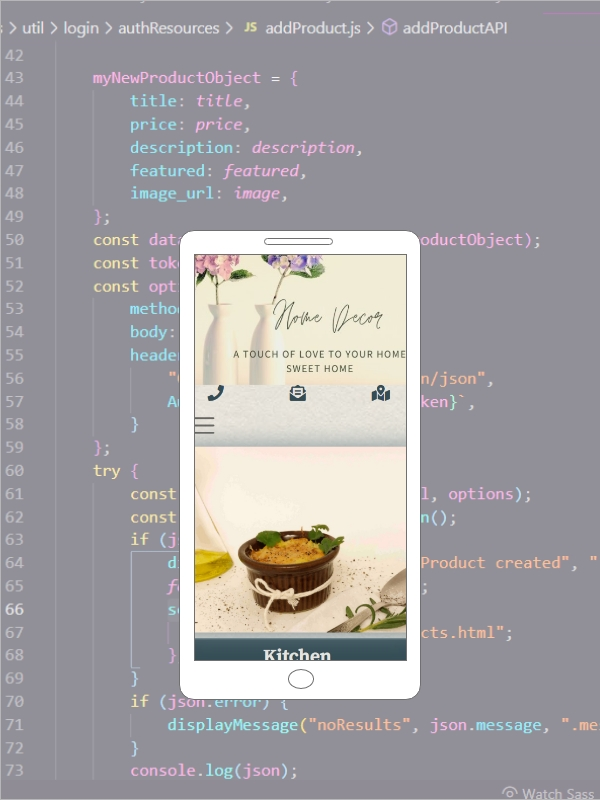
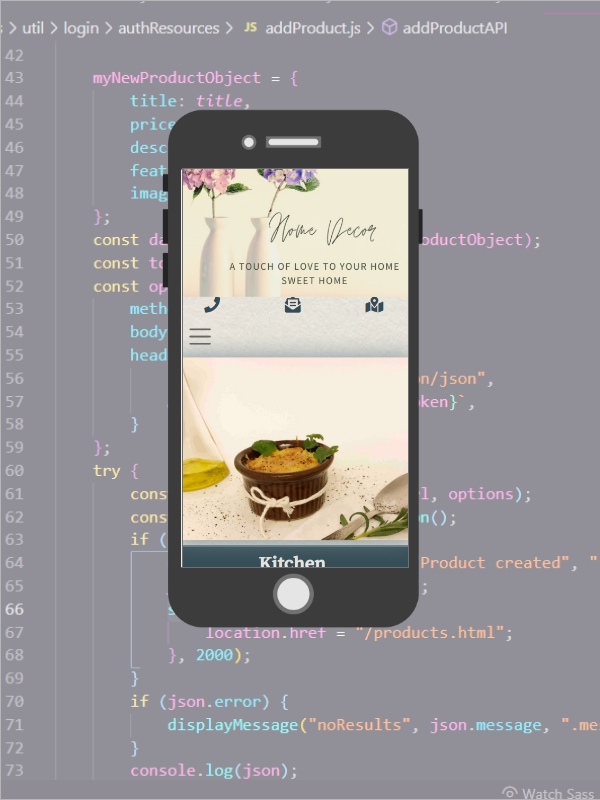
Adjust styles in images and contact form. Adjust the links to page and git in the portfolio section.

Changed region(s): [[0.27, 0.125, 0.72, 0.875]]

diff --git a/js/components/contact.js b/js/components/contact.js
@@ -5,12 +5,12 @@ export function contactShow() {
                 <div id="validation"></div>
                 <div class="errorRequest"></div>        
         <div class="col-md-4">
-            <div class="d-flex justify-content-evenly">
+            <div class="d-flex gap-2">
                 <i class="fa-solid fa-location-dot"></i>
                 <h6>Trondheim/Norway</h6>
             </div>
             <br>
-            <a href="mailto:pkderlam@hotmail.com" class="d-flex justify-content-evenly email__contact"><i class="fa-solid fa-envelope"></i>
+            <a href="mailto:pkderlam@hotmail.com" class="d-flex gap-2 email__contact"><i class="fa-solid fa-envelope"></i>
                 <h6>pkderlam@hotmail.com</h6>
             </a>
             <br>
@@ -23,13 +23,13 @@ export function contactShow() {
                         <input type="text" class="form-control" id="exampleInputName" name="exampleInputName" required>
                         <div class="form-error" id="nameError">Your name should have at least 2 characters</div>
                     </div>
-                    <div class="d-md-flex gap-md-2">
-                    <div class="mb-3">
+                    <div class="d-md-flex gap-md-1 col-md-12">
+                    <div class="mb-3 col-md-6">
                         <label for="exampleInputEmail1" class="form-label">Email*</label>
                         <input type="email" class="form-control" id="exampleInputEmail1" name="exampleInputEmail1" required>
                         <div class="form-error" id="emailError">Your email must be a valid email address</div>
                     </div>
-                    <div class="mb-3">
+                    <div class="mb-3 col-md-6">
                         <label for="exampleInputPhoneNumber" class="form-label">Phone Number (optional)</label>
                         <input type="text" class="form-control" id="exampleInputPhoneNumber" name="exampleInputPhoneNumber">
                         <div id="phoneHelp" class="form-text">+47 99999999</div>

diff --git a/css/style.css b/css/style.css
@@ -266,27 +266,30 @@ footer .mobile__logo--footer {
 
 .image__carousel-inner {
   width: 70%;
-  margin: 0 auto 45% auto;
-  /*@media (min-width: 992px){
-            margin: 0 auto 40% auto;
-        }*/
+  margin: 0 auto 40% auto;
 }
 
 @media (min-width: 400px) {
   .image__carousel-inner {
-    margin: 0 auto 30% auto;
+    margin: 0 auto 25% auto;
   }
 }
 
 @media (min-width: 500px) {
   .image__carousel-inner {
-    margin: 0 auto 20% auto;
+    margin: 0 auto 10% auto;
   }
 }
 
-@media (min-width: 767px) {
+@media (min-width: 768px) {
   .image__carousel-inner {
-    margin: 0 auto 40% auto;
+    margin: 0 auto 30% auto;
+  }
+}
+
+@media (min-width: 992px) {
+  .image__carousel-inner {
+    margin: 0 auto 12% auto;
   }
 }
 
@@ -302,8 +305,9 @@ footer .mobile__logo--footer {
 }
 
 .img__services {
-  max-width: 50%;
+  max-width: 95%;
   margin: 2% auto;
+  border-radius: 15px 15px 0 0;
 }
 
 .services__subtitles {
@@ -336,6 +340,11 @@ footer .mobile__logo--footer {
   color: black;
 }
 
+.email__contact:hover {
+  color: black;
+  text-decoration: underline;
+}
+
 .form-error {
   display: none;
 }
@@ -364,6 +373,12 @@ footer .mobile__logo--footer {
 }
 
 @media (min-width: 768px) {
+  .skills__list h6 {
+    font-size: 1.2rem;
+  }
+}
+
+@media (min-width: 992px) {
   .skills__list h6 {
     font-size: 1.5rem;
   }

diff --git a/js/components/portfolioCards.js b/js/components/portfolioCards.js
@@ -29,6 +29,8 @@ async function portfolioCardsShow(categoriesURL, i) {
 }
 
 function contentCarousel(data, i) {
+  let sizeLinkToPage = data[0].excerpt.rendered.length;
+  let sizeLinkToGit = data[1].excerpt.rendered.length
   portfolioCards.innerHTML +=
     `<div class="wrap__carousel row">
         <div id="carouselExampleDark${i}" class="carousel carousel-dark slide" data-bs-ride="carousel">
@@ -47,8 +49,8 @@ function contentCarousel(data, i) {
         </div>
       </div>
       <div class="container buttons d-flex justify-content-around">
-            <a href = "${data[0].excerpt.rendered}" class="btn" id="linkToPage"><i class="fa-solid fa-globe"></i></a>
-            <a href = "${data[1].excerpt.rendered}" class="btn" id="linkToGit"><i class="fa-brands fa-github"></i></a>
+            <a href = "${data[0].excerpt.rendered.slice(3, (sizeLinkToPage - 5))}" class="btn" id="linkToPage"><i class="fa-solid fa-globe"></i></a>
+            <a href = "${data[1].excerpt.rendered.slice(3, (sizeLinkToGit - 5))}" class="btn" id="linkToGit"><i class="fa-brands fa-github"></i></a>
           </div>
       </div>
       </div>`;
@@ -62,6 +64,5 @@ function contentCarousel(data, i) {
             </div>`;
       dataIndex++;
     }
-    console.log(carouselItem[i]);
   }
 }

diff --git a/js/components/skills.js b/js/components/skills.js
@@ -2,7 +2,7 @@ export function skillsShow() {
     const skillsList = document.querySelector(".skills__list");
     skillsList.innerHTML = `
     <div class="row ">
-    <div class="col d-md-flex flex-md-row gap-md-4 justify-content-center">
+    <div class="col d-md-flex flex-md-row gap-md-2 gap-lg-3 justify-content-center">
         <div class="d-flex align-items-center">
             <i class="fa-brands fa-html5 me-2"></i> 
             <h6>HTML</h6>
@@ -33,7 +33,7 @@ export function skillsShow() {
             <h6>Trello</h6>
         </div>
     </div>
-    <div class="col d-md-flex flex-md-row gap-md-4 justify-content-center">
+    <div class="col d-md-flex flex-md-row gap-md-2 gap-lg-3 justify-content-center">
         <div class="d-flex align-items-center">
             <i class="fa-brands fa-css3-alt me-2"></i>
             <h6>CSS</h6>

diff --git a/sass/partials/_services.scss b/sass/partials/_services.scss
@@ -1,22 +1,26 @@
-.img__services{
-    max-width: 50%;
+.img__services {
+    max-width: 95%;
     margin: 2% auto;
+    border-radius: 15px 15px 0 0;
 }
-.services__subtitles{
+
+.services__subtitles {
     background: getColour(secondary-color);
     color: getColour(primary-color);
     justify-content: space-evenly;
     align-items: center;
     width: 100%;
     padding: 1% 0;
-    @media(min-width:768px){
-        & h1{
+
+    @media(min-width:768px) {
+        & h1 {
             font-size: 1.4rem;
         }
     }
 }
-.service__card{
+
+.service__card {
     border: 1px solid getColour(dark-gray);
     border-radius: 15px;
-    margin-bottom:2%;
+    margin-bottom: 2%;
 }

diff --git a/sass/partials/_carousel.scss b/sass/partials/_carousel.scss
@@ -1,6 +1,6 @@
 .image__carousel-inner {
     width: 70%;
-    margin: 0 auto 45% auto;
+    margin: 0 auto 40% auto;
 
     @media (min-width: 400px) {
         margin: 0 auto 25% auto;
@@ -12,6 +12,10 @@
 
     @media (min-width: 768px) {
         margin: 0 auto 30% auto;
+    }
+
+    @media (min-width: 992px) {
+        margin: 0 auto 12% auto;
     }
 }
 

diff --git a/sass/partials/_contact.scss b/sass/partials/_contact.scss
@@ -1,7 +1,13 @@
-.email__contact{
+.email__contact {
     text-decoration: none;
     color: black;
+
+    &:hover {
+        color: black;
+        text-decoration: underline;
+    }
 }
-.form-error{
+
+.form-error {
     display: none;
 }

diff --git a/sass/partials/_skills.scss b/sass/partials/_skills.scss
@@ -1,5 +1,9 @@
-.skills__list h6{
-    @media (min-width:768px){
+.skills__list h6 {
+    @media (min-width:768px) {
+        font-size: 1.2rem;
+    }
+
+    @media (min-width:992px) {
         font-size: 1.5rem;
     }
 }
